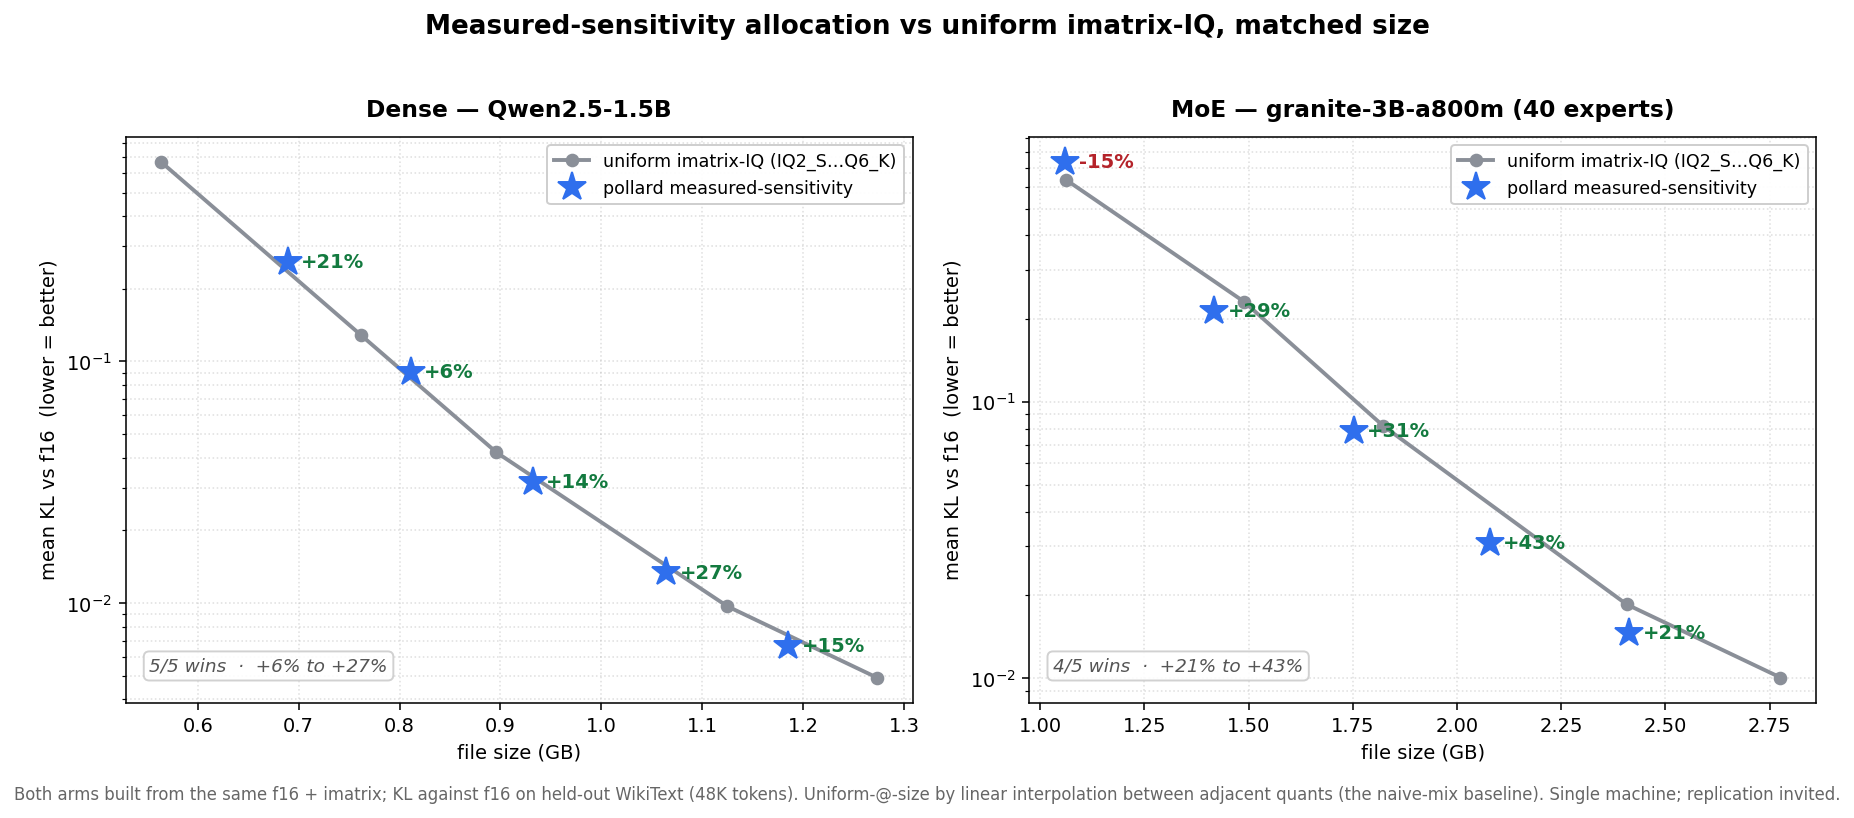
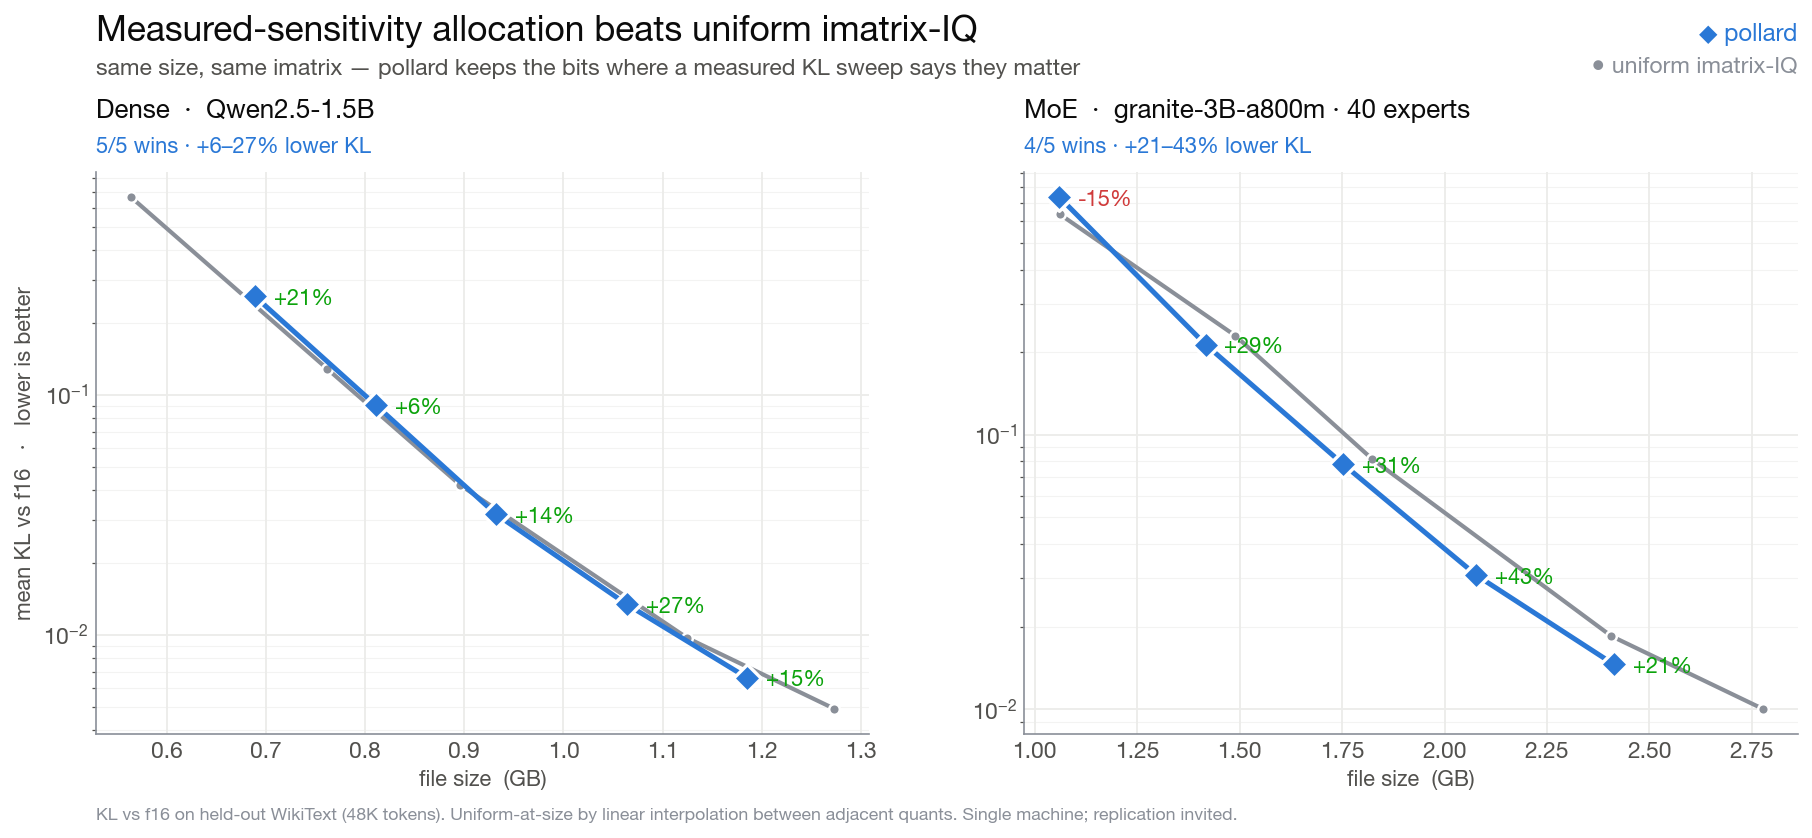
pollard-eval (trajectory-divergence, comparable to Unsloth) + professional chart redesign
To claim we beat anyone, we have to measure what THEY measure. The strong quantizers
publish top-1 token agreement with the f16 reference over a held-out set (Unsloth calls
it Divergence-300 @32), a stronger signal than single-token mean-KL — a quant can nail
mean-KL and still drift over a paragraph.

pollard-eval (NEW):
- scores any set of quants — OURS and a competitor GGUF, in one run — for top-1 agreement
  AND mean KL vs the f16 reference, and writes a CSV the chart reads. Apples-to-apples,
  no more guessing whether we win.
- --trajectory: greedy-generate N tokens from the reference on held-out prompts, then
  score the quants on those trajectories (the Divergence-300 @N variant).
- --rpc pools nodes for a reference too big for one box; robust parsing of the several
  wordings llama-perplexity has used for the agreement line.

chart redesign (assets/kl_win.png):
- rebuilt on the dataviz design system: validated palette (hero blue for pollard, recessive
  gray baseline, status green/red win labels), recessive grid, thin marks, clean type
  hierarchy, direct labels. Replaces the dull matplotlib default — reads as a designed
  system, not a script dump.

Next: run pollard-eval on pollard vs Unsloth Qwen3.8 GGUFs (needs their files + a full
llama.cpp build) to get the head-to-head, then a Pareto chart in this same house style.

diff --git a/experiments/plot_kl_win.py b/experiments/plot_kl_win.py
@@ -1,10 +1,12 @@
 #!/usr/bin/env python3
 """Regenerate assets/kl_win.png from the firm KL sweeps in experiments/data/.
 
-Two panels — dense and MoE — each plots the uniform imatrix-IQ curve (gray) and
-the pollard measured-sensitivity builds (blue). Honest by construction: the win
-is annotated per point straight from the data (log-log interpolation of the
-uniform curve at each pollard size), losses included.
+Two panels — dense and MoE — each a quality-vs-size Pareto view: the uniform
+imatrix-IQ curve (recessive gray) and the pollard measured-sensitivity builds
+(hero blue). Honest by construction: the win is annotated per point straight from
+the data (linear/naive-mix interpolation of the uniform curve at each pollard
+size), losses shown in red. Design follows the dataviz system (validated palette,
+recessive grid, thin marks, selective direct labels).
 
     python experiments/plot_kl_win.py
 """
@@ -12,9 +14,27 @@ import csv, math, os
 import matplotlib
 matplotlib.use("Agg")
 import matplotlib.pyplot as plt
+from matplotlib import font_manager as fm
 
 HERE = os.path.dirname(__file__)
 OUT = os.path.join(HERE, "..", "assets", "kl_win.png")
+
+# --- dataviz palette (validated reference instance) ---
+SURFACE = "#ffffff"
+INK      = "#0b0b0b"
+INK_2    = "#52514e"
+MUTED    = "#8a8f98"     # recessive baseline / grid
+POLLARD  = "#2a78d6"     # categorical slot 1 (the hero series)
+WIN      = "#0ca30c"     # status: good
+LOSS     = "#d03b3b"     # status: critical
+GRID     = "#ececea"
+
+plt.rcParams.update({
+    "font.family": ["Helvetica Neue", "Helvetica", "Arial", "DejaVu Sans"],
+    "font.size": 11, "text.color": INK, "axes.edgecolor": MUTED,
+    "axes.labelcolor": INK_2, "xtick.color": INK_2, "ytick.color": INK_2,
+    "axes.linewidth": 0.8, "figure.facecolor": SURFACE, "axes.facecolor": SURFACE,
+})
 
 
 def load(path):
@@ -27,74 +47,84 @@ def load(path):
 
 def uni_at(uni, size):
     # LINEAR interpolation between adjacent measured uniform quants — the honest
-    # "naive-mix" baseline: dithering some layers to the next quant type down lands
-    # you on this line. pollard is itself a mix, so this is the right thing to beat.
-    # (Do NOT use log-log here — it invents a single-type quant that can't exist at
-    # an intermediate size, understates the baseline, and manufactures fake losses.)
-    xs = [s for s, _ in uni]
-    ys = [k for _, k in uni]
-    x = size
-    if x <= xs[0]:
+    # naive-mix baseline (dithering to the next quant lands you on this line).
+    xs = [s for s, _ in uni]; ys = [k for _, k in uni]
+    if size <= xs[0]:
         i = 0
-    elif x >= xs[-1]:
+    elif size >= xs[-1]:
         i = len(xs) - 2
     else:
-        i = max(j for j in range(len(xs) - 1) if xs[j] <= x)
-    f = (x - xs[i]) / (xs[i + 1] - xs[i])
+        i = max(j for j in range(len(xs) - 1) if xs[j] <= size)
+    f = (size - xs[i]) / (xs[i + 1] - xs[i])
     return ys[i] + f * (ys[i + 1] - ys[i])
 
 
 PANELS = [
-    ("kl_win_dense.csv", "Dense — Qwen2.5-1.5B", "5/5 wins  ·  +6% to +27%"),
-    ("kl_win_moe.csv", "MoE — granite-3B-a800m (40 experts)", "4/5 wins  ·  +21% to +43%"),
+    ("kl_win_dense.csv", "Dense", "Qwen2.5-1.5B"),
+    ("kl_win_moe.csv", "MoE", "granite-3B-a800m · 40 experts"),
 ]
 
-fig, axes = plt.subplots(1, 2, figsize=(13, 5.4))
-for ax, (fname, title, sub) in zip(axes, PANELS):
+fig, axes = plt.subplots(1, 2, figsize=(12.4, 5.6), dpi=150)
+fig.subplots_adjust(left=0.07, right=0.985, top=0.80, bottom=0.13, wspace=0.20)
+
+for ax, (fname, kind, model) in zip(axes, PANELS):
     poll, uni = load(os.path.join(HERE, "data", fname))
-
-    ux = [s for s, _ in uni]
-    uy = [k for _, k in uni]
-    ax.plot(ux, uy, "-o", color="#8a8f98", lw=2, ms=6, zorder=2,
-            label="uniform imatrix-IQ (IQ2_S…Q6_K)")
-    for s, k in uni:  # label the ladder rungs lightly
-        pass
-
-    px = [s for s, _ in poll]
-    py = [k for _, k in poll]
-    ax.plot(px, py, "*", color="#2f6fed", ms=15, zorder=4,
-            label="pollard measured-sensitivity", linestyle="none")
-
-    for s, k in poll:
-        u = uni_at(uni, s)
-        imp = (u - k) / u * 100
-        if imp >= 2:
-            txt, col = f"+{imp:.0f}%", "#137a3f"
-        elif imp <= -2:
-            txt, col = f"{imp:.0f}%", "#b4232a"
-        else:
-            txt, col = "tie", "#8a8f98"
-        ax.annotate(txt, (s, k), textcoords="offset points", xytext=(7, -3),
-                    fontsize=10, fontweight="bold", color=col, zorder=5)
-
     ax.set_yscale("log")
-    ax.set_xlabel("file size (GB)")
-    ax.set_ylabel("mean KL vs f16  (lower = better)")
-    ax.set_title(title, fontsize=12, fontweight="bold", pad=10)
-    ax.grid(True, which="both", ls=":", alpha=0.4)
-    ax.legend(fontsize=9, loc="upper right", framealpha=0.95)
-    # subtitle in the empty lower-left (the KL curve occupies upper-left → lower-right)
-    ax.text(0.03, 0.05, sub, transform=ax.transAxes, ha="left", va="bottom",
-            fontsize=9.5, color="#555", style="italic",
-            bbox=dict(boxstyle="round,pad=0.3", fc="white", ec="#ccc", alpha=0.9))
+    for s in ("top", "right"):
+        ax.spines[s].set_visible(False)
+    ax.grid(True, which="major", color=GRID, lw=0.9, zorder=0)
+    ax.grid(True, which="minor", color=GRID, lw=0.5, alpha=0.6, zorder=0)
+    ax.tick_params(length=0)
 
-fig.suptitle("Measured-sensitivity allocation vs uniform imatrix-IQ, matched size",
-             fontsize=13.5, fontweight="bold", y=1.02)
-fig.text(0.5, -0.02,
-         "Both arms built from the same f16 + imatrix; KL against f16 on held-out "
-         "WikiText (48K tokens). Uniform-@-size by linear interpolation between "
-         "adjacent quants (the naive-mix baseline). Single machine; replication invited.",
-         ha="center", fontsize=8.5, color="#666")
-fig.tight_layout()
-fig.savefig(OUT, dpi=140, bbox_inches="tight", facecolor="white")
+    # baseline: recessive gray
+    ux = [s for s, _ in uni]; uy = [k for _, k in uni]
+    ax.plot(ux, uy, "-", color=MUTED, lw=2, zorder=2)
+    ax.scatter(ux, uy, s=26, color=MUTED, zorder=3, edgecolor=SURFACE, linewidth=1.2)
+
+    # hero: pollard measured-sensitivity
+    px = [s for s, _ in poll]; py = [k for _, k in poll]
+    ax.plot(px, py, "-", color=POLLARD, lw=2.4, zorder=4)
+    ax.scatter(px, py, s=88, color=POLLARD, marker="D", zorder=5,
+               edgecolor=SURFACE, linewidth=1.6)
+
+    wins = 0
+    for s, k in poll:
+        u = uni_at(uni, s); imp = (u - k) / u * 100
+        if imp >= 2:
+            txt, col, wins = f"+{imp:.0f}%", WIN, wins + 1
+        elif imp <= -2:
+            txt, col = f"{imp:.0f}%", LOSS
+        else:
+            txt, col = "±0%", MUTED
+        ax.annotate(txt, (s, k), textcoords="offset points", xytext=(9, -4),
+                    fontsize=10.5, fontweight="bold", color=col, zorder=6)
+
+    ax.set_xlabel("file size  (GB)", fontsize=10.5)
+    if ax is axes[0]:
+        ax.set_ylabel("mean KL vs f16   ·   lower is better", fontsize=10.5)
+    # panel title: kind (bold) + model (muted), + the headline win
+    imps = [(uni_at(uni, s) - k) / uni_at(uni, s) * 100 for s, k in poll]
+    good = [i for i in imps if i >= 2]
+    head = f"{wins}/{len(poll)} wins · +{min(good):.0f}–{max(good):.0f}% lower KL" if good else ""
+    ax.annotate(f"{kind}  ·  {model}", xy=(0, 1), xycoords="axes fraction",
+                xytext=(0, 26), textcoords="offset points", fontsize=12.5,
+                fontweight="bold", color=INK, ha="left")
+    ax.annotate(head, xy=(0, 1), xycoords="axes fraction", xytext=(0, 9),
+                textcoords="offset points", fontsize=10.5, color=POLLARD,
+                ha="left", fontweight="bold")
+
+# figure title + legend + source
+fig.text(0.07, 0.955, "Measured-sensitivity allocation beats uniform imatrix-IQ",
+         fontsize=17, fontweight="bold", color=INK, ha="left")
+fig.text(0.07, 0.915, "same size, same imatrix — pollard keeps the bits where a "
+         "measured KL sweep says they matter", fontsize=11, color=INK_2, ha="left")
+# manual legend (top-right), identity by mark not color-alone
+lx = 0.985
+fig.text(lx, 0.955, "◆ pollard", color=POLLARD, fontsize=11.5, fontweight="bold", ha="right")
+fig.text(lx, 0.918, "● uniform imatrix-IQ", color=MUTED, fontsize=11, ha="right")
+fig.text(0.07, 0.028, "KL vs f16 on held-out WikiText (48K tokens). Uniform-at-size "
+         "by linear interpolation between adjacent quants. Single machine; "
+         "replication invited.", fontsize=8.5, color=MUTED, ha="left")
+
+fig.savefig(OUT, dpi=150, bbox_inches="tight", facecolor=SURFACE)
 print("wrote", os.path.abspath(OUT))

diff --git a/tools/pollard_eval.py b/tools/pollard_eval.py
@@ -1,0 +1,159 @@
+#!/usr/bin/env python3
+"""pollard-eval — trajectory-divergence eval, comparable to the strong quantizers.
+
+Single-token mean-KL says a quant's NEXT token is close to the reference's — but a
+quant can look great on mean-KL and still drift over a paragraph. This measures the
+stronger, publishable thing: **top-1 token agreement with the f16/bf16 reference
+over a held-out set**, plus mean KL, per quant. That is the metric family the strong
+quantizers report (e.g. Unsloth's "Divergence-300 @32" / top-1 agreement), so a
+Pollard number measured this way is directly comparable to theirs — no more guessing
+whether we win.
+
+Two ways to build the held-out set:
+  * default: score against a held-out TEXT corpus (--eval held.txt) — simple, robust.
+  * --trajectory: first greedy-generate N tokens from the REFERENCE on each prompt
+    in --prompts, then score the quants on those reference trajectories. This is the
+    "does the quant follow BF16's own path" variant; closest to Divergence-300 @32.
+
+Point it at OUR builds AND a competitor's GGUFs in one run to get an apples-to-apples
+table (top-1 agreement + KL vs size) — and a CSV the chart reads.
+
+    pollard-eval --ref model-f16.gguf --eval held.txt \\
+        --quants pollard-q3.gguf unsloth-UD-Q3_K_XL.gguf --out results.csv
+
+    pollard-eval --ref model-f16.gguf --prompts prompts.txt --trajectory --gen-tokens 32 \\
+        --quants pollard-q3.gguf unsloth-UD-Q3_K_XL.gguf --out results.csv
+
+GPU strongly recommended; --rpc pools nodes for a model too big for one box.
+"""
+import argparse
+import os
+import re
+import shutil
+import subprocess
+import sys
+import tempfile
+
+from pollard_calc import _shard_paths
+
+_KLD = re.compile(r"Mean\s+KLD\s*[:=]\s*([0-9.eE+-]+)")
+# llama-perplexity --kl-divergence prints a top-1 agreement line; the wording has
+# shifted across versions ("Same top p", "top-1 …", "maximum top token …"), so match
+# the common shapes and take the first percentage on that line.
+_TOP1 = re.compile(
+    r"(?im)^(?:.*\bsame\s+top|.*\btop[-\s]?1|.*\btop[-\s]?token).*?([0-9.]+)\s*%")
+
+
+def _size_gb(path):
+    return sum(os.path.getsize(p) for p in _shard_files(path)) / 1e9
+
+
+def _shard_files(path):
+    return _shard_paths(path)
+
+
+def _run(cmd):
+    return subprocess.run(cmd, capture_output=True, text=True)
+
+
+def _score(ppl, quant, corpus, base, rpc):
+    """top-1 agreement (%) and mean KL of `quant` vs the base logits, or (None, None)."""
+    cmd = [ppl, "-m", quant, "-f", corpus, "--kl-divergence",
+           "--kl-divergence-base", base, "-ngl", "99", "-c", "512"]
+    if rpc:
+        cmd += ["--rpc", rpc]
+    out = _run(cmd)
+    txt = out.stdout + out.stderr
+    kld = _KLD.search(txt)
+    top1 = _TOP1.search(txt)
+    return (float(top1.group(1)) if top1 else None,
+            float(kld.group(1)) if kld else None)
+
+
+def _greedy(cli, ref, prompt, n, rpc):
+    """N greedy tokens continued from `prompt` by the reference model (temp 0)."""
+    cmd = [cli, "-m", ref, "-p", prompt, "-n", str(n), "--temp", "0",
+           "-ngl", "99", "--no-display-prompt", "-no-cnv", "--simple-io"]
+    if rpc:
+        cmd += ["--rpc", rpc]
+    out = _run(cmd)
+    # strip the llama.cpp end-of-generation marker and any trailing banner noise
+    return out.stdout.split("[end of text]")[0].strip()
+
+
+def main():
+    ap = argparse.ArgumentParser(
+        description=__doc__.splitlines()[0],
+        formatter_class=argparse.RawDescriptionHelpFormatter, epilog=__doc__)
+    ap.add_argument("--ref", required=True, help="reference GGUF (f16/bf16) — the ground truth")
+    ap.add_argument("--quants", required=True, nargs="+",
+                    help="quant GGUFs to score (ours AND a competitor's, in one run)")
+    ap.add_argument("--eval", help="held-out text corpus to score on")
+    ap.add_argument("--prompts", help="prompts file (one per line) for --trajectory mode")
+    ap.add_argument("--trajectory", action="store_true",
+                    help="generate reference continuations first, then score on them "
+                         "(Divergence-300 @N style); needs --prompts")
+    ap.add_argument("--gen-tokens", type=int, default=32, help="tokens to generate per prompt")
+    ap.add_argument("--out", help="CSV out (label,size_gb,top1_agree,mean_kl) for the chart")
+    ap.add_argument("--rpc", help="RPC servers to pool, 'host:port[,host:port…]'")
+    ap.add_argument("--llama-cli", default="llama-cli")
+    ap.add_argument("--llama-perplexity", default="llama-perplexity")
+    a = ap.parse_args()
+
+    for tool in ([a.llama_perplexity] + ([a.llama_cli] if a.trajectory else [])):
+        if shutil.which(tool) is None and not os.path.exists(tool):
+            sys.exit(f"ERROR: '{tool}' not found — build llama.cpp (install.sh) or pass the path.")
+    if a.trajectory and not a.prompts:
+        sys.exit("ERROR: --trajectory needs --prompts (the seeds to continue from f16).")
+    if not a.trajectory and not a.eval:
+        sys.exit("ERROR: pass --eval <held-out.txt>, or --trajectory --prompts <prompts.txt>.")
+
+    tmp = tempfile.mkdtemp(prefix="pollard_eval_")
+    corpus = a.eval
+    if a.trajectory:
+        corpus = os.path.join(tmp, "trajectories.txt")
+        prompts = [p for p in open(a.prompts).read().splitlines() if p.strip()]
+        print(f"== building reference trajectories :: {len(prompts)} prompts x "
+              f"{a.gen_tokens} tokens from {os.path.basename(a.ref)}")
+        with open(corpus, "w") as f:
+            for i, p in enumerate(prompts):
+                cont = _greedy(a.llama_cli, a.ref, p, a.gen_tokens, a.rpc)
+                f.write(p + " " + cont + "\n")
+                print(f"  [{i+1}/{len(prompts)}] {len(cont)} chars")
+
+    # reference logits (the ground truth the quants are compared against)
+    base = os.path.join(tmp, "base.dat")
+    print(f"== reference logits on the held-out set ({os.path.basename(a.ref)})")
+    bcmd = [a.llama_perplexity, "-m", a.ref, "-f", corpus,
+            "--kl-divergence-base", base, "-ngl", "99", "-c", "512"]
+    if a.rpc:
+        bcmd += ["--rpc", a.rpc]
+    _run(bcmd)
+
+    rows = []
+    print(f"\n{'quant':<34} {'size':>8} {'top-1 agree':>12} {'mean KL':>10}")
+    for q in a.quants:
+        top1, kld = _score(a.llama_perplexity, q, corpus, base, a.rpc)
+        gb = _size_gb(q)
+        rows.append((os.path.basename(q), gb, top1, kld))
+        t1 = f"{top1:.2f}%" if top1 is not None else "FAIL"
+        kk = f"{kld:.5f}" if kld is not None else "FAIL"
+        print(f"{os.path.basename(q):<34} {gb:7.2f}G {t1:>12} {kk:>10}")
+
+    for f in (base,):
+        os.path.exists(f) and os.remove(f)
+
+    if a.out:
+        with open(a.out, "w") as f:
+            f.write("label,size_gb,top1_agree,mean_kl\n")
+            for name, gb, top1, kld in rows:
+                f.write(f"{name},{gb:.3f},{top1 if top1 is not None else ''},"
+                        f"{kld if kld is not None else ''}\n")
+        print(f"\nwrote {a.out} — feed it to experiments/plot_kl_win.py or plot_eval.py")
+    if any(t is None for _, _, t, _ in rows):
+        print("\nNOTE: some 'top-1 agree' came back blank — this llama-perplexity build "
+              "may word the agreement line differently; mean KL still ranks them.")
+
+
+if __name__ == "__main__":
+    main()

diff --git a/README.md b/README.md
@@ -100,7 +100,7 @@ edge). Run it and pollard beats uniform IQ at matched size.
 | 2 | `llama-imatrix -m f16.gguf -f calib.txt -o m.imatrix` | once per model | an **f16/bf16** source + a calib corpus |
 | 3 | `pollard-sensitivity --gguf f16.gguf --imatrix m.imatrix --eval held.txt --out m.sens.json` | once per model — **this is the win** | f16 source, the imatrix, a held-out eval |
 | 4 | `pollard-fit --gguf f16.gguf --ram N --imatrix m.imatrix --sensitivity m.sens.json` | build | f16 source, imatrix, sensitivity profile |
-| 5 | `llama-perplexity … --kl-divergence` / `llama-cli -m …-pollard.gguf` | verify + run | the built GGUF |
+| 5 | `pollard-eval --ref f16 --quants pollard.gguf other.gguf …` | verify + **compare** — top-1 agreement + KL vs f16, ours next to anyone's, in one table | the built GGUFs |
 
 ```bash
 # the full winning path, start to finish
